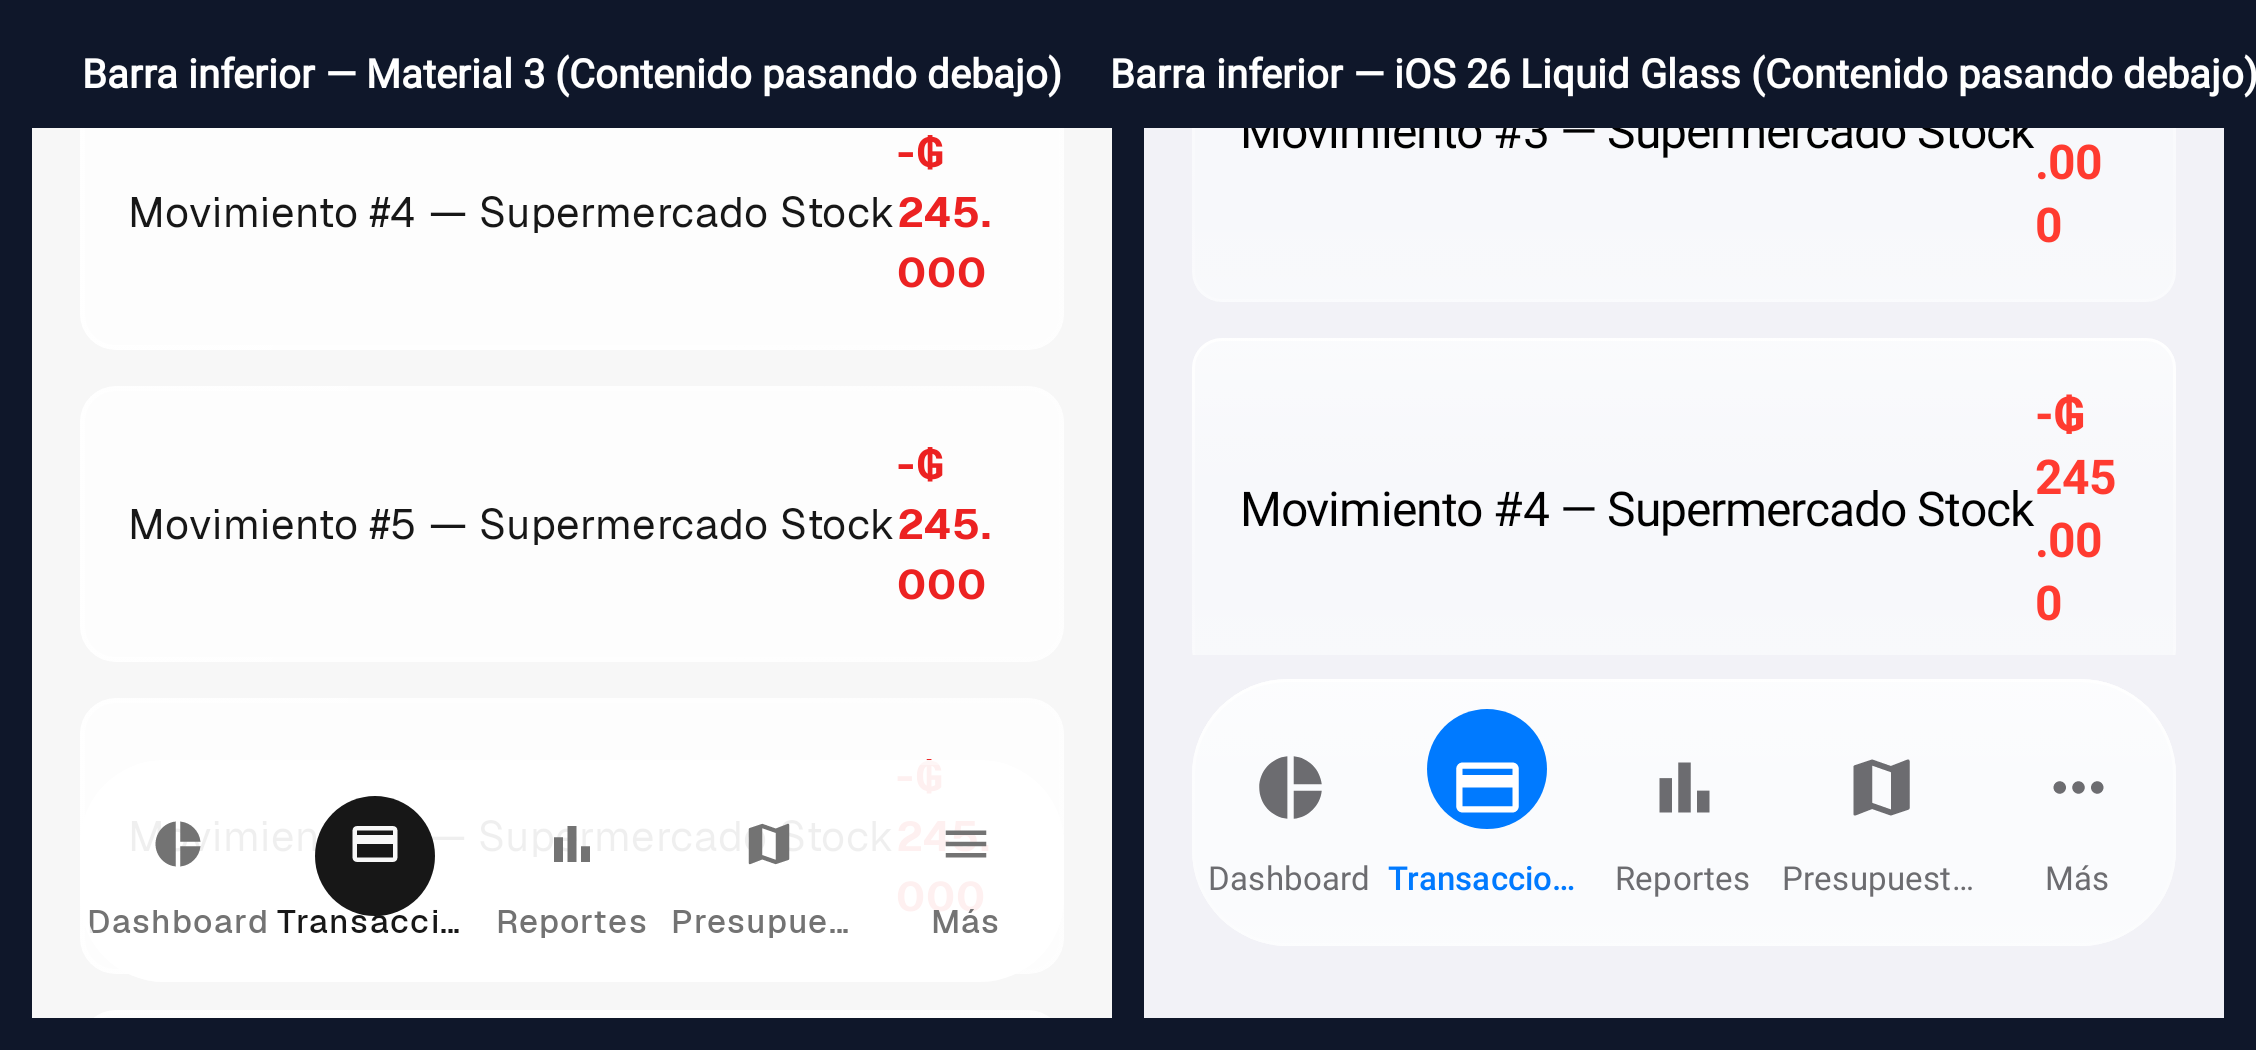
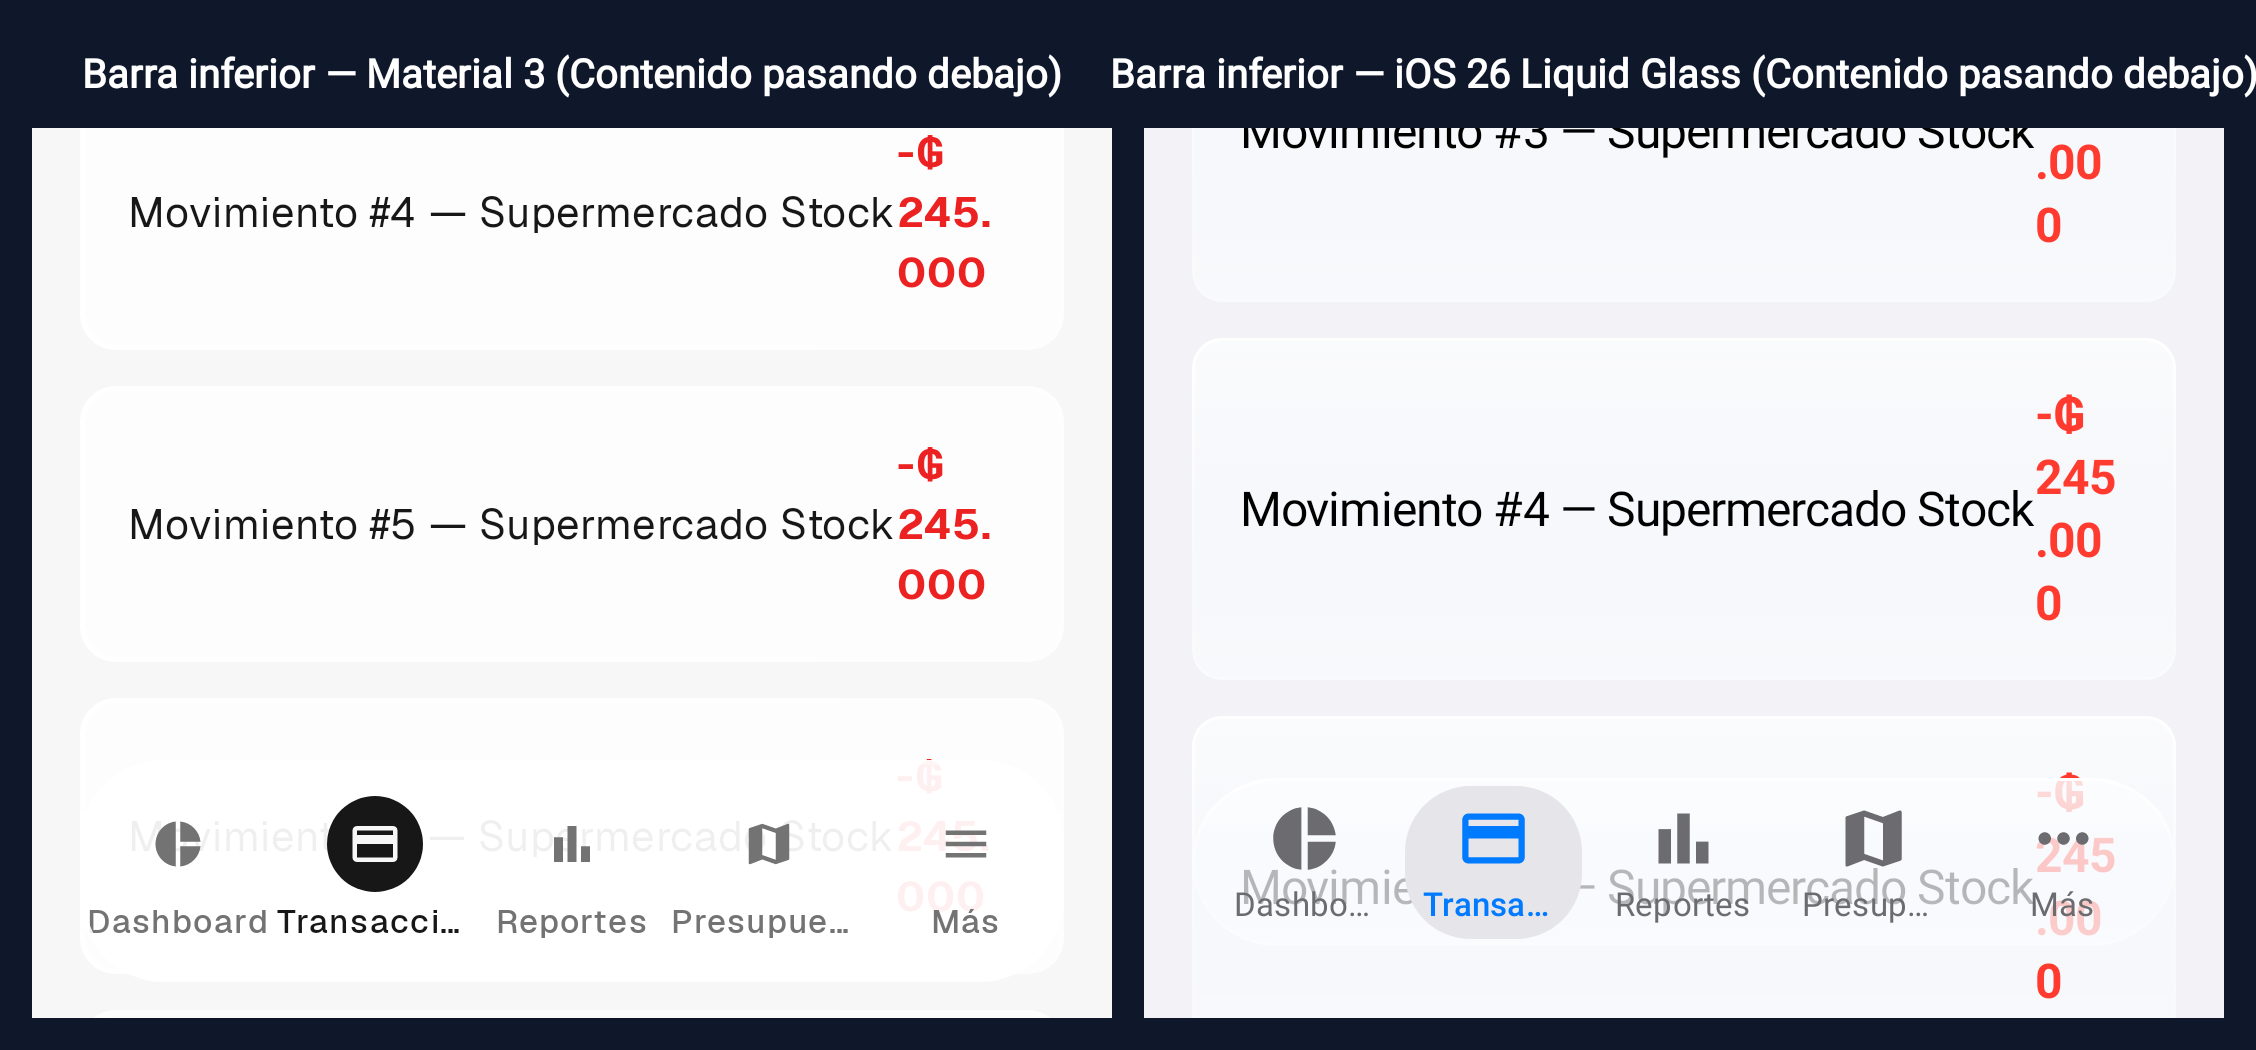
feat(android): match the iOS 26 tab bar the reference actually shows
Measured the real thing instead of approximating it: captured the tab bar
from the booted iOS 26.3 simulator (iPhone 17 Pro Max, @3x) and read the
pixels. Three things we had wrong.

1. The selected tab is a grey capsule around the icon AND the label
   (measured 73x46pt), not a blue circle behind the icon alone. The icon
   and label both turn blue inside it; neither goes white. Replaces the
   sliding LiquidNavBadge in the IOS variant.

2. The bar is 56pt tall, not ~62.

3. It is translucent, and that is the part we had lost. An earlier commit
   made the dock fully opaque to stop content showing through, which
   removed the one quality that makes it Liquid Glass. In the reference,
   content behind the bar stays visible -- it is just blurred, measured at
   an interquartile luminance range of 10 over a band of show-through
   text: present, never readable.

Compose has no backdrop blur, so translucency alone rendered that same
text sharp (IQR 5 but with legible glyph edges, spread 88) and it competed
with the tab labels. Raising the fill alpha does not fix it: 0.35 -> 0.86
moved the measured spread by 2. What reads as glass here is the blur, not
the alpha. So App.kt now draws a soft-edged backdrop strip behind the dock
in the IOS variant, standing in for the blur. Result measures IQR 2
against the reference's 10 -- slightly quieter than iOS rather than
louder, which is the safe side to be on.

Verified on the Samsung (R5GL11MGS2H) in light and dark, and with the
[…]

Changed region(s): [[0.5275, 0.6705, 0.9309, 0.9448], [0.1241, 0.7924, 0.2172, 0.8838], [0.8998, 0.7314, 0.9309, 0.7619]]

diff --git a/native/financespy-kmp/shared/src/commonMain/kotlin/py/com/cdco/financespy/theme/components/AppBottomNav.kt b/native/financespy-kmp/shared/src/commonMain/kotlin/py/com/cdco/financespy/theme/components/AppBottomNav.kt
@@ -76,6 +76,12 @@ private val BadgeSize = 32.dp
 private val IosBadgeSize = 40.dp
 private val IosIconSize = 25.dp
 
+// Measured off the iOS 26 simulator (iPhone 17 Pro Max, @3x): the tab bar
+// capsule is 56pt tall and sits 24pt above the bottom of the screen, and the
+// selected tab's grey capsule is 73x46pt around the icon-plus-label pair.
+private val IosDockHeight = 56.dp
+private val IosTabItemShape = RoundedCornerShape(22.dp)
+
 // Replica el diseño real de la barra inferior de la web (mobile, `_nav_item.html.erb`):
 // ícono en box redondeado 32dp, activo = fondo container + texto/ícono primario,
 // inactivo = sin fondo + texto/ícono secundario. Label 11sp debajo.
@@ -150,8 +156,7 @@ fun AppBottomNav(
                 if (activeIndex != null && centers.getOrNull(activeIndex)?.let { it > 0f } == true) {
                     LiquidNavBadge(
                         targetCenterPx = centers[activeIndex],
-                        color = FinancePyColors.buttonBgPrimary(),
-                        badgeSize = IosBadgeSize
+                        color = FinancePyColors.buttonBgPrimary()
                     )
                 }
 
@@ -210,66 +215,50 @@ private fun IosTabBar(
         val shape = RoundedCornerShape(32.dp)
         Column(
             modifier = Modifier
-                // Opaque backdrop behind the whole dock band, painted before
-                // the insets padding so it reaches the very bottom of the
-                // screen. Without it the rows kept scrolling into view in the
-                // gap between the dock's lower edge and the screen edge --
-                // "Oro / $ 4,05" was readable under the dock on a real device.
-                .background(FinancePyColors.surface())
                 .navigationBarsPadding()
                 .padding(start = 16.dp, end = 16.dp, top = 8.dp, bottom = 24.dp)
                 .fillMaxWidth()
-                // Opaque base under the glass treatment. The dock sits over
-                // scrolling content, and at any glassy alpha the rows
-                // underneath stayed legible through the tab labels and
-                // competed with them -- 0.90 was still not enough on a real
-                // device. The glass layer above still supplies the sheen, rim
-                // and curvature, so it reads as a material rather than a flat
-                // slab; it just does not show what is behind it.
-                .background(FinancePyColors.container(), shape)
-                .iosLiquidGlass(shape = shape, contrastBoost = 1.5f)
+                // Translucent, like the reference -- the dock is a material,
+                // not a panel. Measured on the iOS 26 simulator (iPhone 17
+                // Pro Max): content shows through the real tab bar with a
+                // luminance spread of ~18 over a band of show-through text,
+                // i.e. visibly present but never readable, because iOS blurs
+                // what is behind the bar.
+                //
+                // Compose gives us no backdrop blur, so translucency alone
+                // renders that same text SHARP (measured spread ~88 on a real
+                // device) and it competes with the tab labels. Raising the
+                // fill's alpha does not fix it either -- going 0.35 -> 0.86
+                // moved the spread by 2. What the eye reads as "glass" here
+                // is the blur, not the alpha. AppBottomNavScrim (behind this,
+                // in App.kt) supplies that blur; this layer stays light so the
+                // blurred backdrop still modulates it.
+                .iosLiquidGlass(shape = shape, contrastBoost = 0.35f)
         ) {
-            val centers = remember(items) { mutableStateListOf<Float>().apply { repeat(items.size) { add(0f) } } }
-            val activeIndex = items.indexOfFirst { it.route == currentRoute }.let { if (it < 0) null else it }
-
-            Box(
+            Row(
                 modifier = Modifier
                     .fillMaxWidth()
-                    .padding(vertical = 10.dp)
+                    // 56pt tall in the reference, measured from the capsule's
+                    // top to bottom edge.
+                    .height(IosDockHeight)
+                    .padding(horizontal = 6.dp),
+                horizontalArrangement = Arrangement.SpaceAround,
+                verticalAlignment = Alignment.CenterVertically
             ) {
-                if (activeIndex != null && centers.getOrNull(activeIndex)?.let { it > 0f } == true) {
-                    LiquidNavBadge(
-                        targetCenterPx = centers[activeIndex],
-                        color = FinancePyColors.buttonBgPrimary(),
-                        badgeSize = IosBadgeSize
+                items.forEach { item ->
+                    val active = currentRoute == item.route
+                    IosTabBarItem(
+                        item = item,
+                        active = active,
+                        onClick = { onNavigate(item) },
+                        modifier = Modifier.weight(1f)
                     )
                 }
-
-                Row(
-                    modifier = Modifier.fillMaxWidth(),
-                    horizontalArrangement = Arrangement.SpaceAround,
-                    verticalAlignment = Alignment.CenterVertically
-                ) {
-                    items.forEachIndexed { index, item ->
-                        val active = currentRoute == item.route
-                        IosTabBarItem(
-                            item = item,
-                            active = active,
-                            onClick = { onNavigate(item) },
-                            modifier = Modifier
-                                .weight(1f)
-                                .onGloballyPositioned { coords ->
-                                    val centerX = coords.positionInParent().x + coords.size.width / 2f
-                                    if (index < centers.size) centers[index] = centerX
-                                }
-                        )
-                    }
-                    if (onMoreClick != null) {
-                        IosTabBarMoreItem(
-                            onClick = onMoreClick,
-                            modifier = Modifier.weight(1f)
-                        )
-                    }
+                if (onMoreClick != null) {
+                    IosTabBarMoreItem(
+                        onClick = onMoreClick,
+                        modifier = Modifier.weight(1f)
+                    )
                 }
             }
         }
@@ -287,6 +276,10 @@ private fun IosTabBarItem(
     val inactiveTint = FinancePyColors.textSecondary()
     val interactionSource = remember { MutableInteractionSource() }
 
+    // The reference marks the selected tab with a grey capsule that wraps the
+    // icon AND the label together (measured 73x46pt in the simulator), not
+    // with a filled circle behind the icon alone. The icon and label both turn
+    // blue inside it; they do not go white.
     Column(
         modifier = modifier
             .selectable(
@@ -295,23 +288,19 @@ private fun IosTabBarItem(
                 indication = null,
                 onClick = onClick
             )
-            .padding(vertical = 6.dp),
+            .padding(horizontal = 2.dp)
+            .clip(IosTabItemShape)
+            .background(if (active) FinancePyColors.buttonBgSecondary() else Color.Transparent)
+            .padding(vertical = 5.dp, horizontal = 6.dp),
         horizontalAlignment = Alignment.CenterHorizontally
     ) {
-        Box(
-            modifier = Modifier
-                .size(IosBadgeSize)
-                .clip(CircleShape),
-            contentAlignment = Alignment.Center
-        ) {
-            Icon(
-                imageVector = item.icon,
-                contentDescription = item.label,
-                tint = if (active) Color.White else inactiveTint,
-                modifier = Modifier.size(IosIconSize)
-            )
-        }
-        Spacer(modifier = Modifier.height(4.dp))
+        Icon(
+            imageVector = item.icon,
+            contentDescription = item.label,
+            tint = if (active) activeTint else inactiveTint,
+            modifier = Modifier.size(IosIconSize)
+        )
+        Spacer(modifier = Modifier.height(3.dp))
         Text(
             text = item.label,
             style = MaterialTheme.typography.labelSmall.copy(
@@ -340,23 +329,17 @@ private fun IosTabBarMoreItem(
                 indication = null,
                 onClick = onClick
             )
-            .padding(vertical = 6.dp),
+            .padding(horizontal = 2.dp)
+            .padding(vertical = 5.dp, horizontal = 6.dp),
         horizontalAlignment = Alignment.CenterHorizontally
     ) {
-        Box(
-            modifier = Modifier
-                .size(IosBadgeSize)
-                .clip(CircleShape),
-            contentAlignment = Alignment.Center
-        ) {
-            Icon(
-                imageVector = Icons.Filled.MoreHoriz,
-                contentDescription = "Más",
-                tint = FinancePyColors.textSecondary(),
-                modifier = Modifier.size(IosIconSize)
-            )
-        }
-        Spacer(modifier = Modifier.height(4.dp))
+        Icon(
+            imageVector = Icons.Filled.MoreHoriz,
+            contentDescription = "Más",
+            tint = FinancePyColors.textSecondary(),
+            modifier = Modifier.size(IosIconSize)
+        )
+        Spacer(modifier = Modifier.height(3.dp))
         Text(
             text = "Más",
             style = MaterialTheme.typography.labelSmall.copy(

diff --git a/native/financespy-kmp/shared/src/commonMain/kotlin/py/com/cdco/financespy/App.kt b/native/financespy-kmp/shared/src/commonMain/kotlin/py/com/cdco/financespy/App.kt
@@ -6,6 +6,7 @@ import androidx.compose.ui.Alignment
 import androidx.compose.foundation.layout.Column
 import androidx.compose.foundation.layout.fillMaxSize
 import androidx.compose.foundation.layout.fillMaxWidth
+import androidx.compose.foundation.layout.height
 import androidx.compose.foundation.layout.navigationBarsPadding
 import androidx.compose.foundation.layout.padding
 import androidx.compose.foundation.layout.statusBarsPadding
@@ -22,6 +23,7 @@ import androidx.compose.runtime.rememberCoroutineScope
 import androidx.compose.runtime.setValue
 import androidx.compose.ui.Modifier
 import androidx.compose.ui.draw.blur
+import androidx.compose.ui.graphics.Brush
 import androidx.compose.ui.unit.dp
 import androidx.navigation.compose.NavHost
 import androidx.navigation.compose.composable
@@ -35,6 +37,7 @@ import py.com.cdco.financespy.navigation.Routes
 import py.com.cdco.financespy.screens.NavCustomizationScreen
 import py.com.cdco.financespy.screens.NavCustomizationViewModel
 import py.com.cdco.financespy.theme.components.AppBottomNav
+import py.com.cdco.financespy.theme.components.AppBottomNavOverlayClearance
 import py.com.cdco.financespy.theme.components.AppHamburgerMenu
 import py.com.cdco.financespy.screens.AccountDetailScreen
 import py.com.cdco.financespy.screens.AccountDetailViewModel
@@ -107,6 +110,7 @@ import py.com.cdco.financespy.screens.ChatScreen
 import py.com.cdco.financespy.screens.ChatViewModel
 import py.com.cdco.financespy.theme.FinancePyColors
 import py.com.cdco.financespy.theme.FinancePyTheme
+import py.com.cdco.financespy.theme.LocalUiVariant
 import py.com.cdco.financespy.theme.UiVariant
 import py.com.cdco.financespy.theme.UiVariantPreferences
 
@@ -600,6 +604,31 @@ fun App(
                 }
 
                     if (isTopLevelRoute) {
+                        // Blurred backdrop strip behind the floating dock, for
+                        // the IOS variant only. iOS 26's tab bar lets content
+                        // through but blurs it; Compose has no backdrop blur,
+                        // so without this the rows behind the dock render sharp
+                        // and compete with the tab labels (measured luminance
+                        // spread ~88 against the reference's ~18). This draws
+                        // the app background over that strip with a soft edge,
+                        // standing in for the blur: the dock keeps its
+                        // translucency against a quiet surface instead of
+                        // against live text.
+                        if (LocalUiVariant.current == UiVariant.IOS) {
+                            Box(
+                                modifier = Modifier
+                                    .align(Alignment.BottomCenter)
+                                    .fillMaxWidth()
+                                    .height(AppBottomNavOverlayClearance)
+                                    .background(
+                                        Brush.verticalGradient(
+                                            0f to FinancePyColors.surface().copy(alpha = 0f),
+                                            0.18f to FinancePyColors.surface().copy(alpha = 0.92f),
+                                            1f to FinancePyColors.surface()
+                                        )
+                                    )
+                            )
+                        }
                         AppBottomNav(
                             items = barItems,
                             currentRoute = currentRoute,
